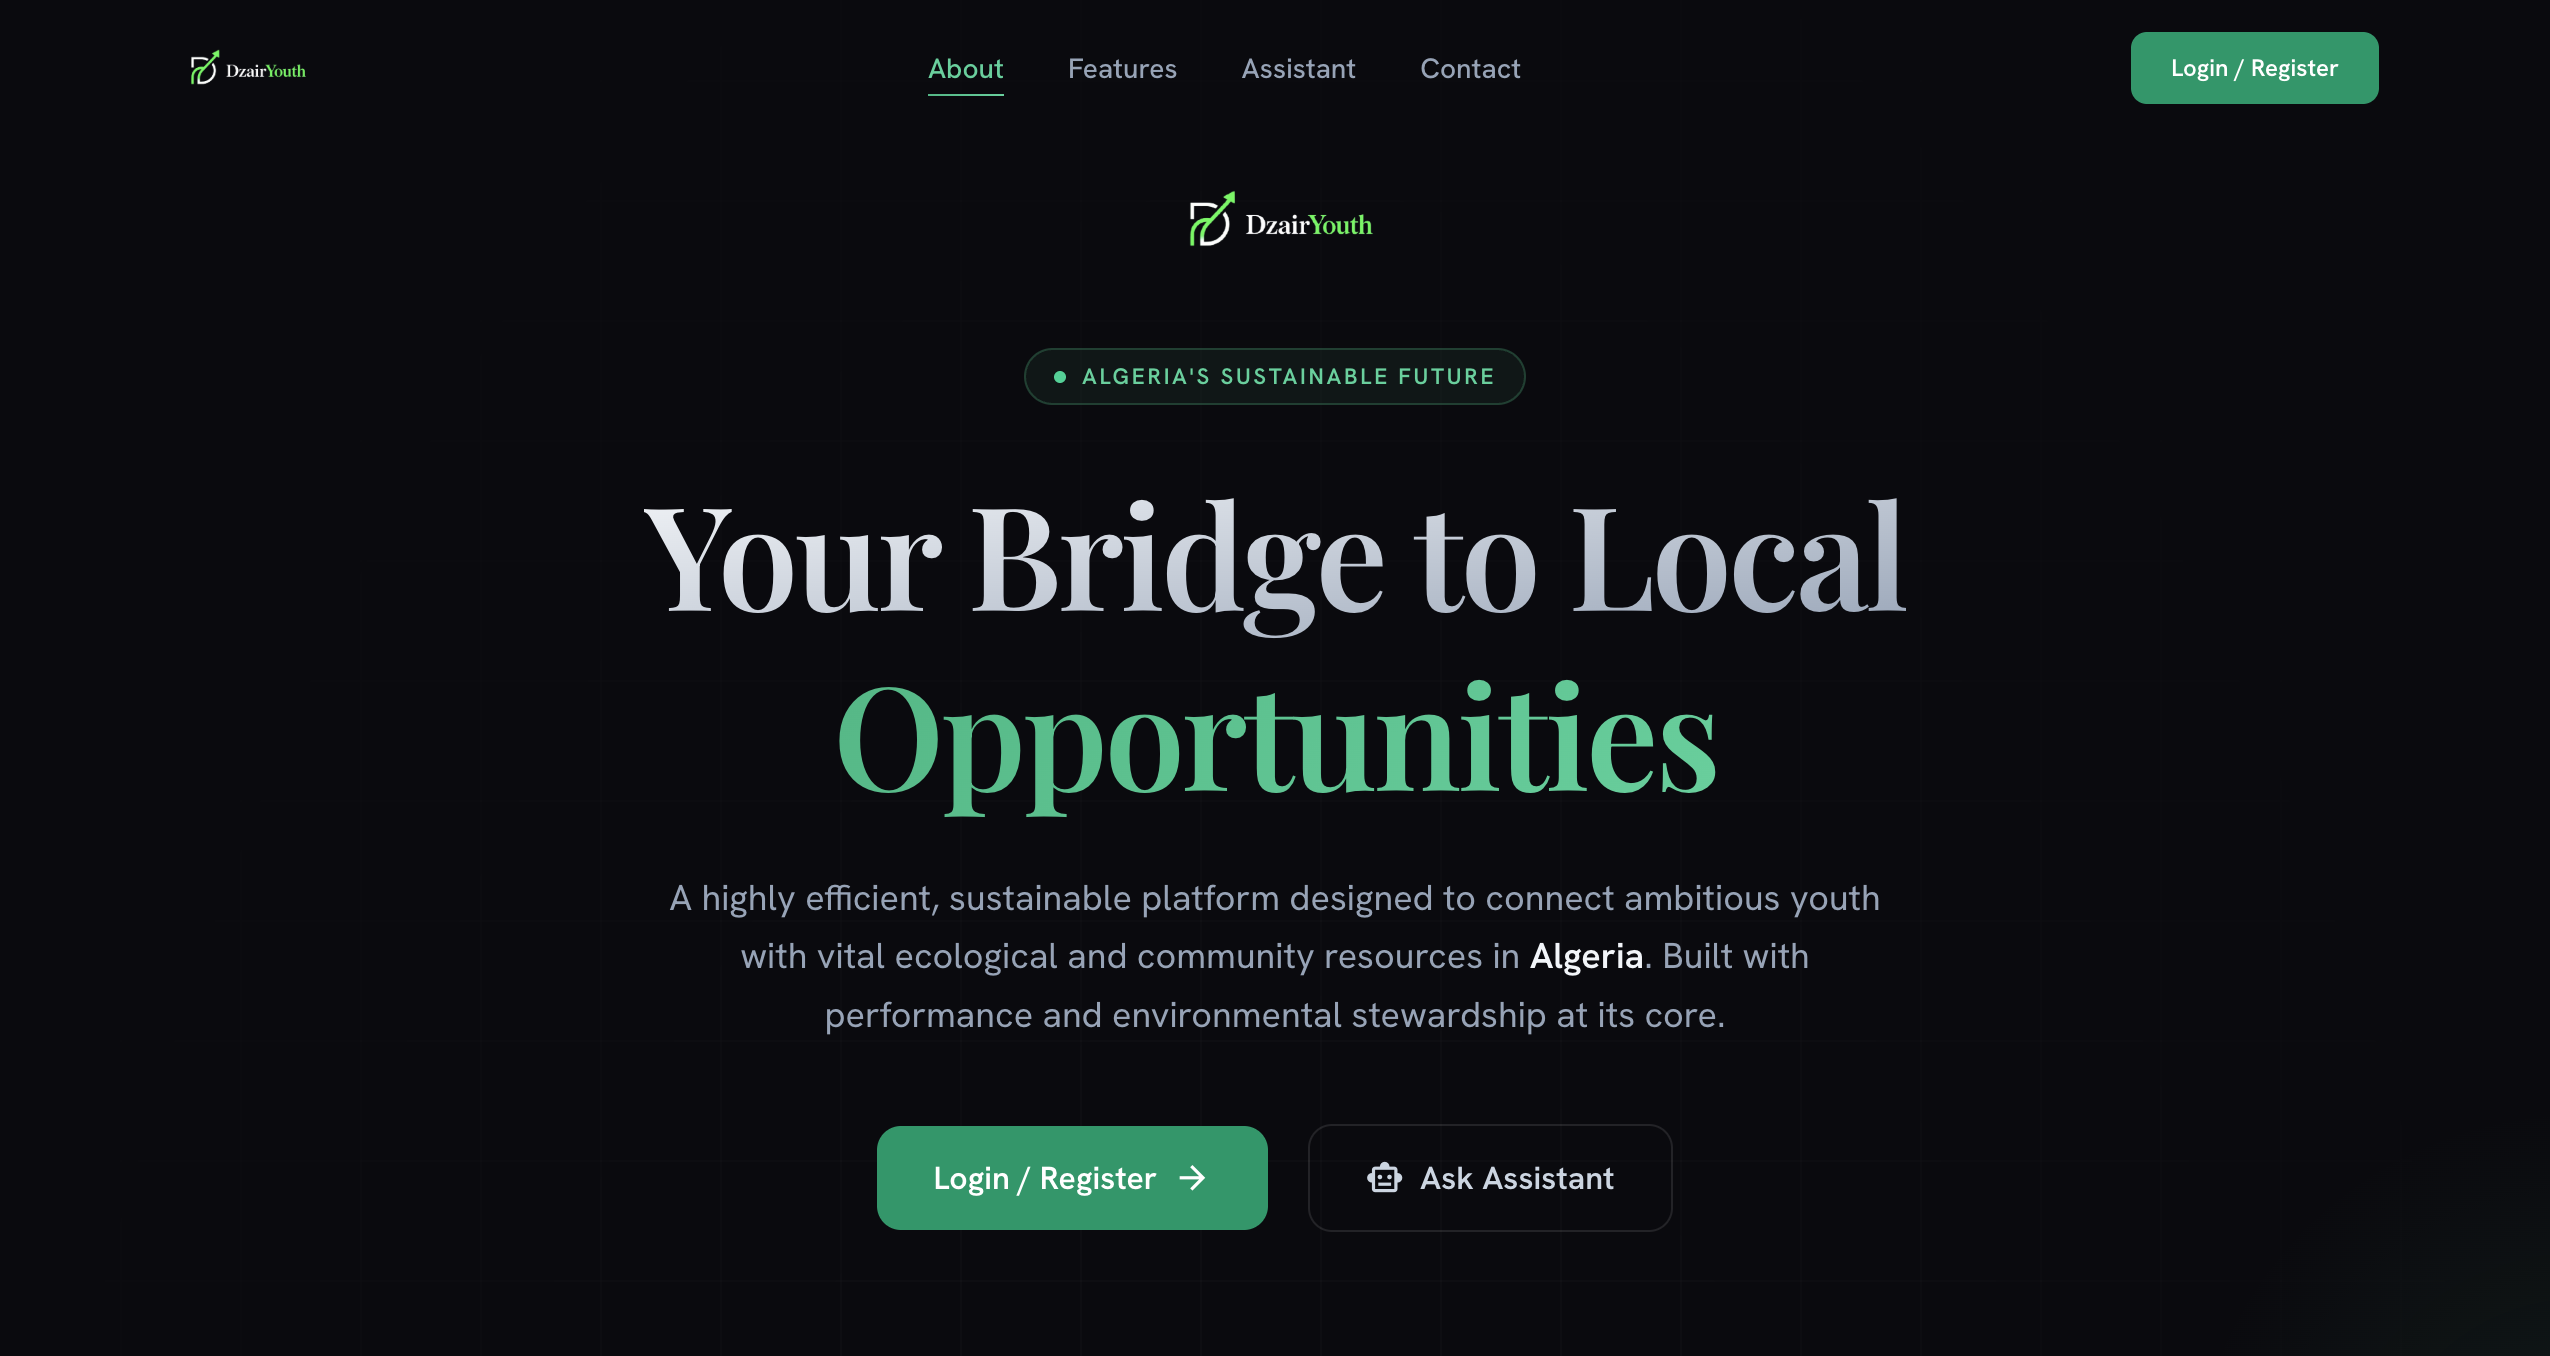
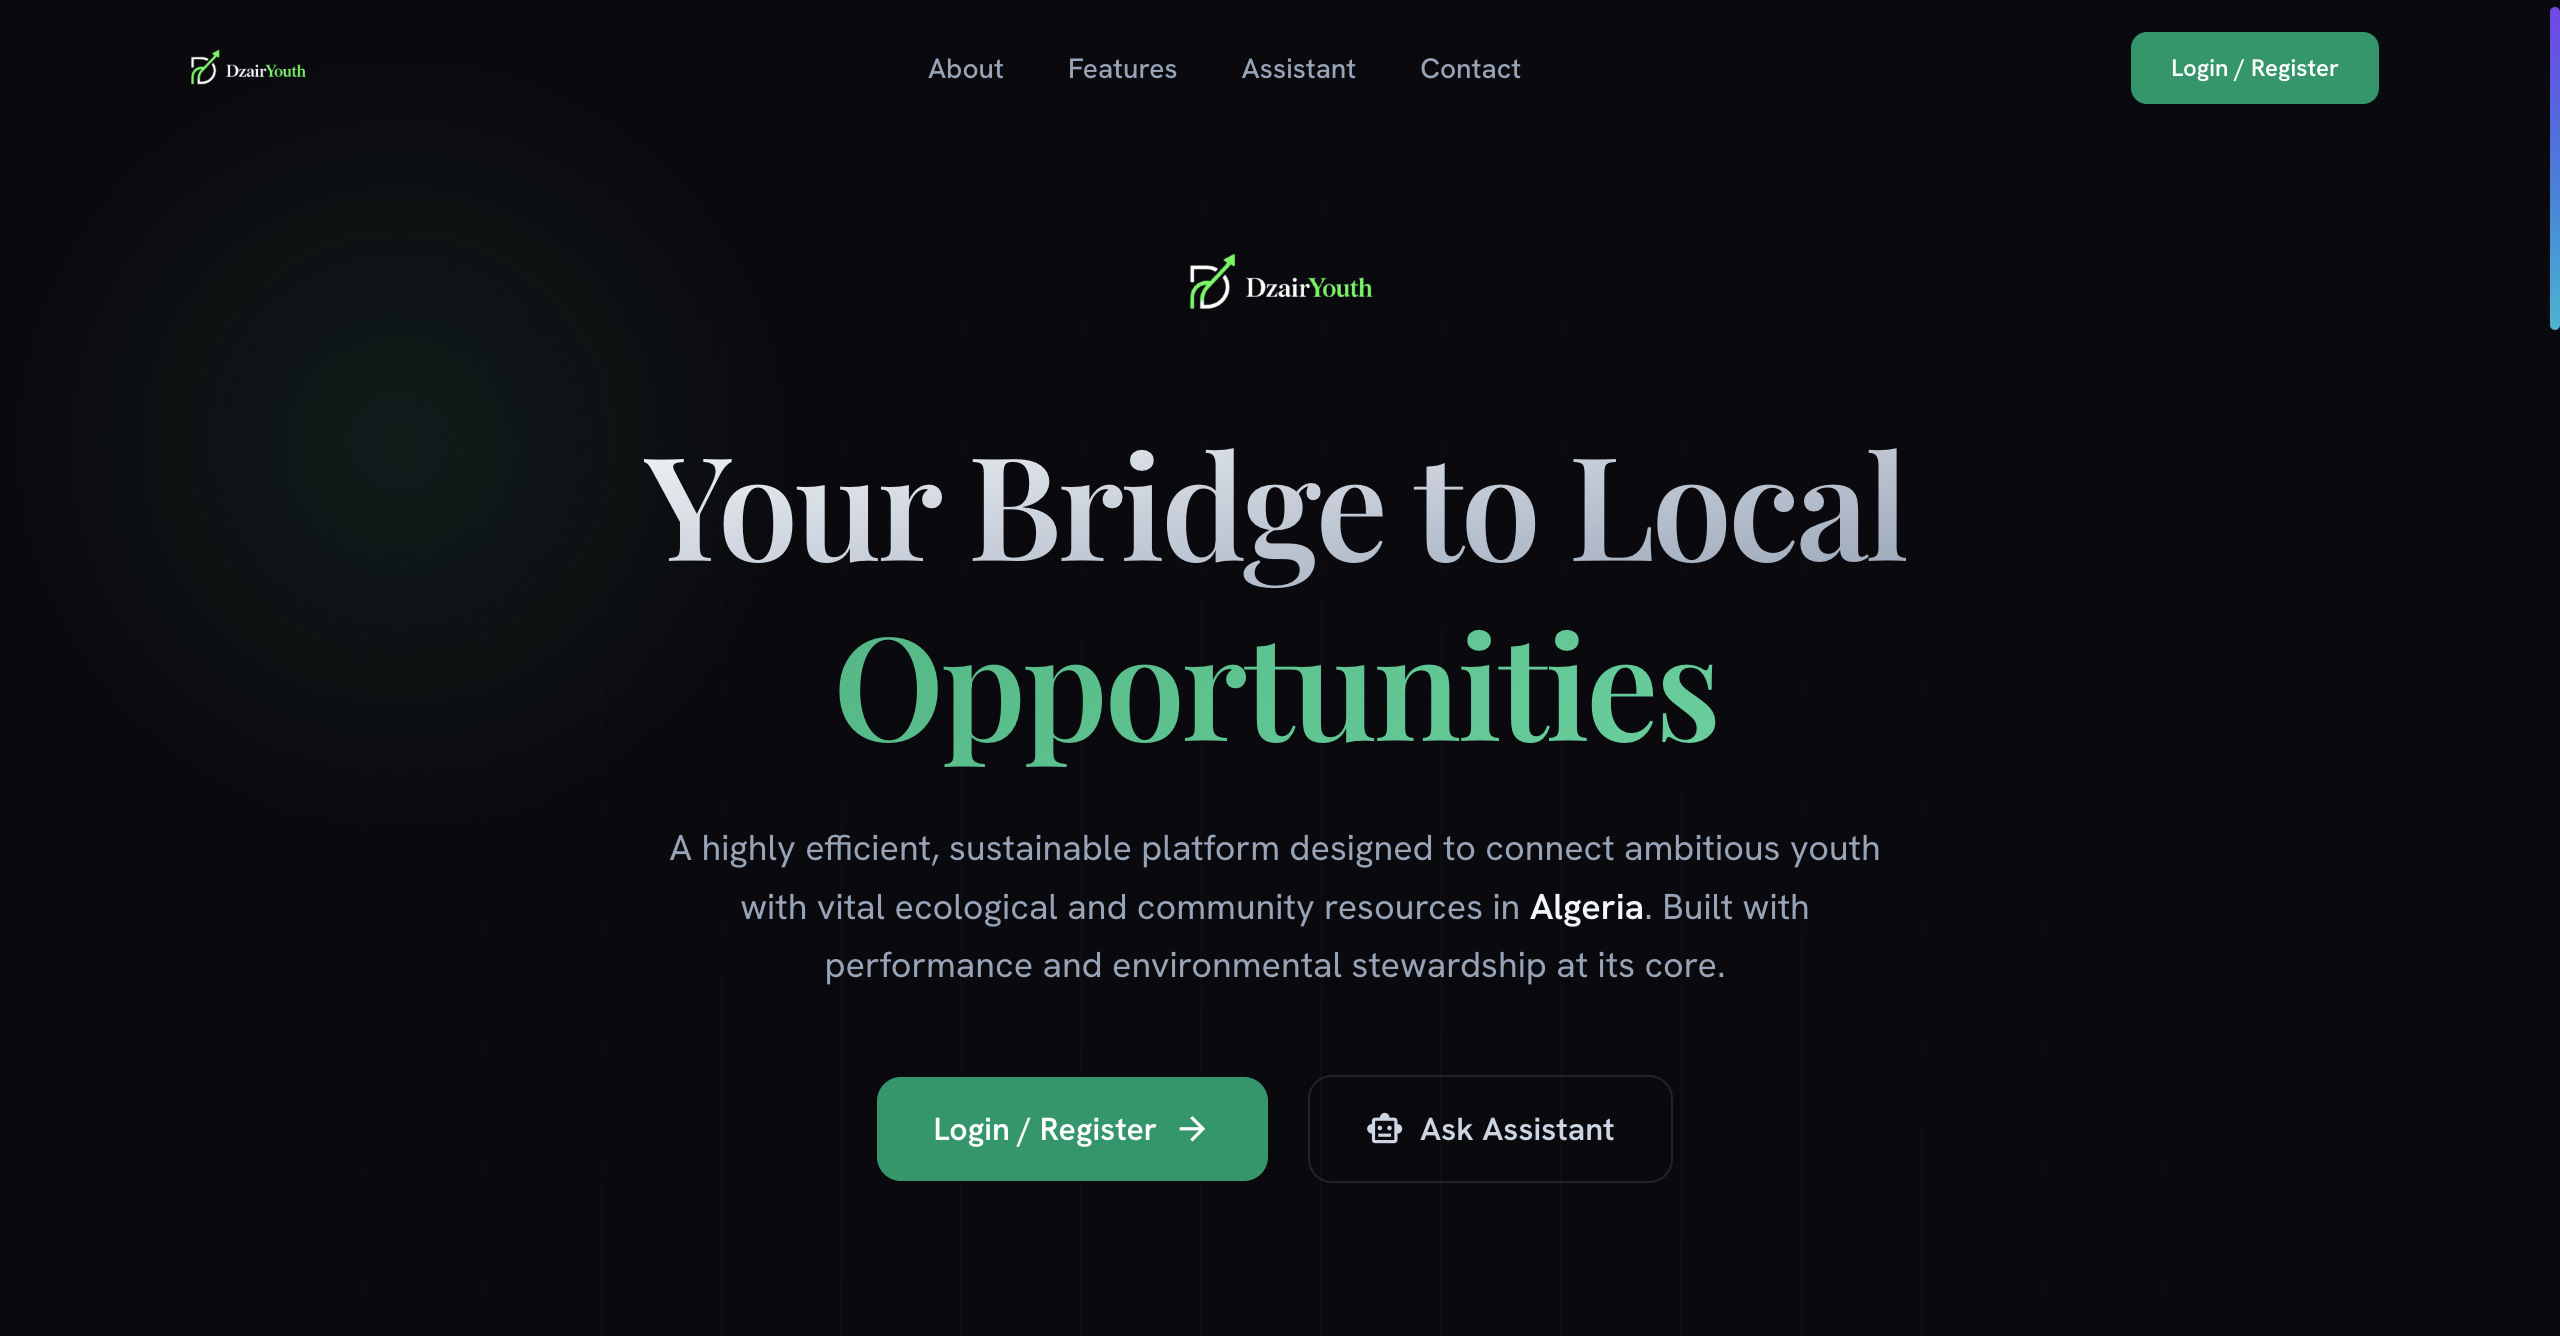
Update footer and ecohack project image

diff --git a/components/footer.tsx b/components/footer.tsx
@@ -136,15 +136,6 @@ export function Footer() {
           >
             © {currentYear} Nadjib Kennouche. All rights reserved.
           </motion.p>
-          <motion.p
-            initial={{ opacity: 0 }}
-            whileInView={{ opacity: 1 }}
-            transition={{ duration: 0.6, delay: 0.1 }}
-            viewport={{ once: true }}
-          >
-            Crafted with{' '}
-            <span className="text-violet-400">♥</span> using React, Next.js &amp; Framer Motion
-          </motion.p>
 
           {/* Back to top */}
           <motion.button